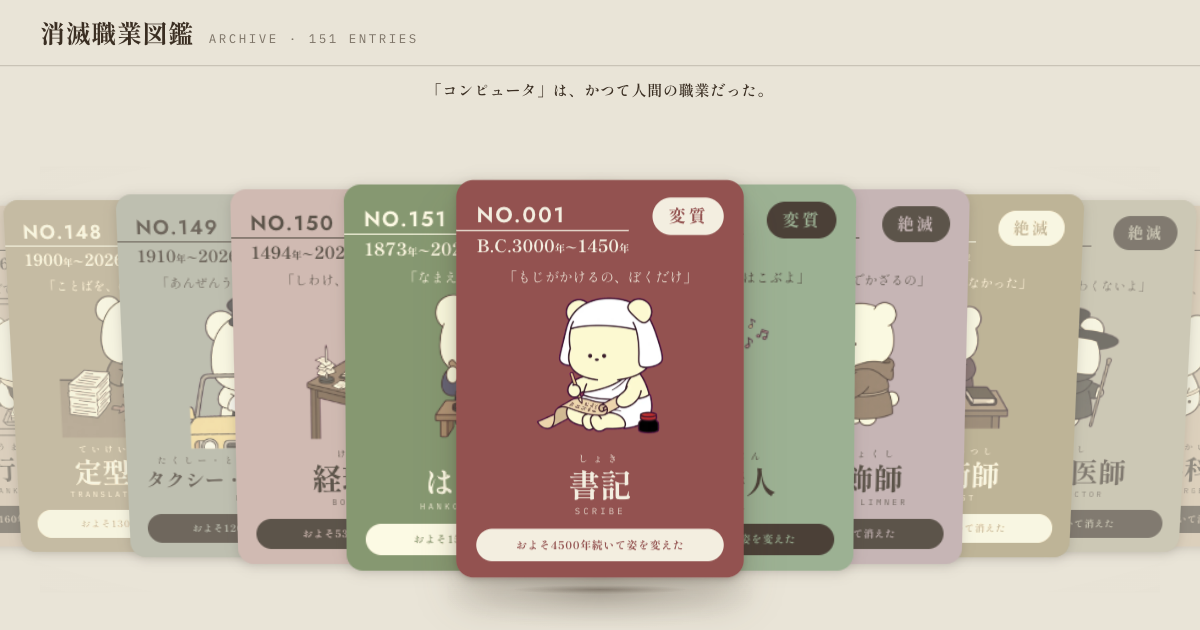
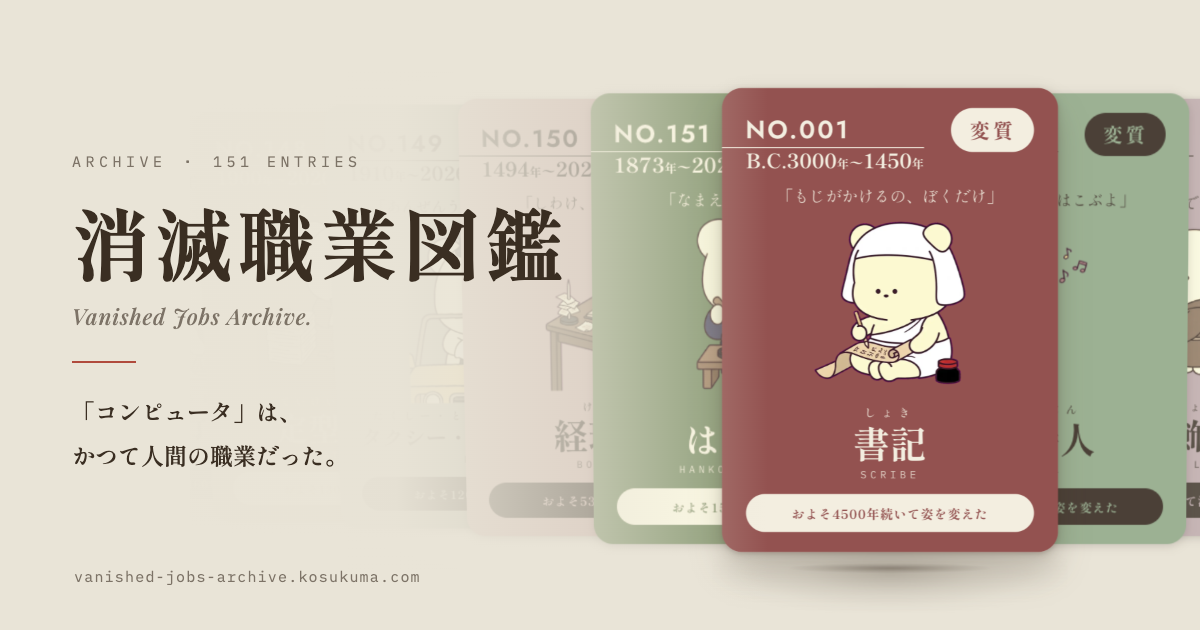
サムネイルに題字「消滅職業図鑑」を大きく入れる
画面をそのまま撮ると、題字がヘッダの中の小さい文字のままで
SNSの縮小表示では読めなかった。実際のサイトから「束」だけを撮り、
版下(tools/og.html)で左に題字・英題・惹句を大きく組む2段構えにした。

Claude-Session: https://claude.ai/code/session_01RgPha8tkR1B7sJKU7L9suT

diff --git a/tools/og.html b/tools/og.html
@@ -1,0 +1,118 @@
+<!doctype html>
+<!--
+  共有時に出る絵（1200×630）の版下。
+  右に置く束は tools/shoot-og.mjs が実際のサイトから撮ってくる。
+  ここを直したら node tools/shoot-og.mjs で public/og.png を焼き直す。
+-->
+<html lang="ja">
+<meta charset="utf-8">
+<title>OG版下</title>
+<link rel="preconnect" href="https://fonts.googleapis.com">
+<link rel="preconnect" href="https://fonts.gstatic.com" crossorigin>
+<link href="https://fonts.googleapis.com/css2?family=Shippori+Mincho:wght@500;600;700&family=IBM+Plex+Mono:wght@400;500&family=Playfair+Display:ital,wght@1,500&display=swap" rel="stylesheet">
+<style>
+  /* 色はサイト本体（globals.css）と同じもの */
+  :root {
+    --bg: #e9e4d7;
+    --ink: #3a2e22;
+    --soft: rgba(58, 46, 34, 0.62);
+    --accent: #b04a3c;
+  }
+  * { margin: 0; padding: 0; box-sizing: border-box; }
+  body { background: #333; }
+
+  #og {
+    position: relative;
+    width: 1200px;
+    height: 630px;
+    overflow: hidden;
+    background: var(--bg);
+  }
+
+  /* 撮ってきた束。位置と大きさは shoot-og.mjs が測って渡す */
+  .deck { position: absolute; }
+
+  /* 左は題字を置くので、地の色をかぶせて束を奥へ引かせる */
+  .veil {
+    position: absolute;
+    inset: 0;
+    background: linear-gradient(
+      90deg,
+      var(--bg) 0%,
+      rgba(233, 228, 215, 0.97) 33%,
+      rgba(233, 228, 215, 0.6) 49%,
+      rgba(233, 228, 215, 0) 64%
+    );
+  }
+
+  .txt {
+    position: absolute;
+    left: 72px;
+    top: 0;
+    height: 100%;
+    display: flex;
+    flex-direction: column;
+    justify-content: center;
+  }
+  .kick {
+    font-family: "IBM Plex Mono", monospace;
+    font-size: 15px;
+    letter-spacing: 0.3em;
+    color: var(--soft);
+    margin-bottom: 26px;
+  }
+  .ttl {
+    font-family: "Shippori Mincho", serif;
+    font-weight: 700;
+    font-size: 78px;
+    letter-spacing: 0.06em;
+    line-height: 1.15;
+    color: var(--ink);
+  }
+  .en {
+    font-family: "Playfair Display", serif;
+    font-style: italic;
+    font-size: 22px;
+    letter-spacing: 0.04em;
+    color: var(--soft);
+    margin-top: 14px;
+  }
+  .rule { width: 64px; height: 2px; background: var(--accent); margin: 30px 0 26px; }
+  .lead {
+    font-family: "Shippori Mincho", serif;
+    font-weight: 600;
+    font-size: 23px;
+    line-height: 1.95;
+    color: var(--ink);
+  }
+  .url {
+    position: absolute;
+    left: 74px;
+    bottom: 44px;
+    font-family: "IBM Plex Mono", monospace;
+    font-size: 15px;
+    letter-spacing: 0.08em;
+    color: var(--soft);
+  }
+</style>
+<div id="og">
+  <img class="deck" alt="">
+  <div class="veil"></div>
+  <div class="txt">
+    <div class="kick">ARCHIVE ・ 151 ENTRIES</div>
+    <div class="ttl">消滅職業図鑑</div>
+    <div class="en">Vanished Jobs Archive.</div>
+    <div class="rule"></div>
+    <div class="lead">「コンピュータ」は、<br>かつて人間の職業だった。</div>
+  </div>
+  <div class="url">vanished-jobs-archive.kosukuma.com</div>
+</div>
+<script>
+  const q = new URLSearchParams(location.search);
+  const deck = document.querySelector(".deck");
+  deck.style.width = (q.get("w") ?? 1400) + "px";
+  deck.style.left = (q.get("left") ?? 190) + "px";
+  deck.style.top = (q.get("top") ?? 39) + "px";
+  deck.src = q.get("deck") ?? "og-deck.png";
+</script>
+</html>

diff --git a/src/app/og-version.ts b/src/app/og-version.ts
@@ -1,2 +1,2 @@
 // tools/shoot-og.mjs が og.png を焼くたびに書き換える。手で触らない。
-export const OG_VERSION = "359d8eb1";
+export const OG_VERSION = "25cc29a6";
